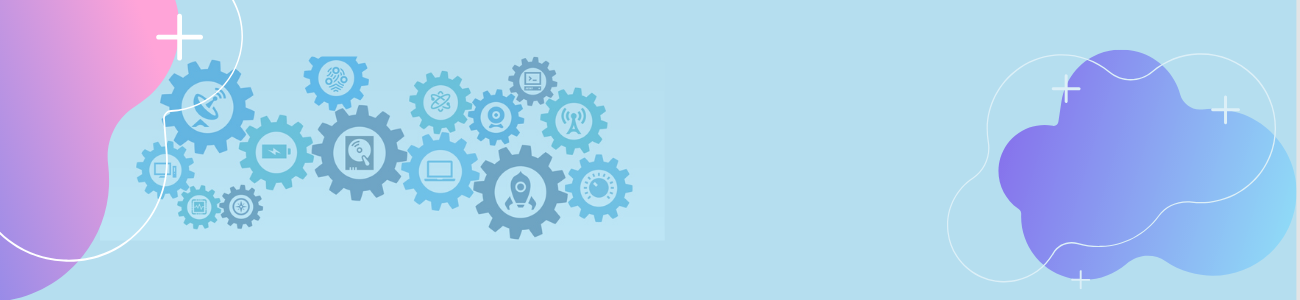
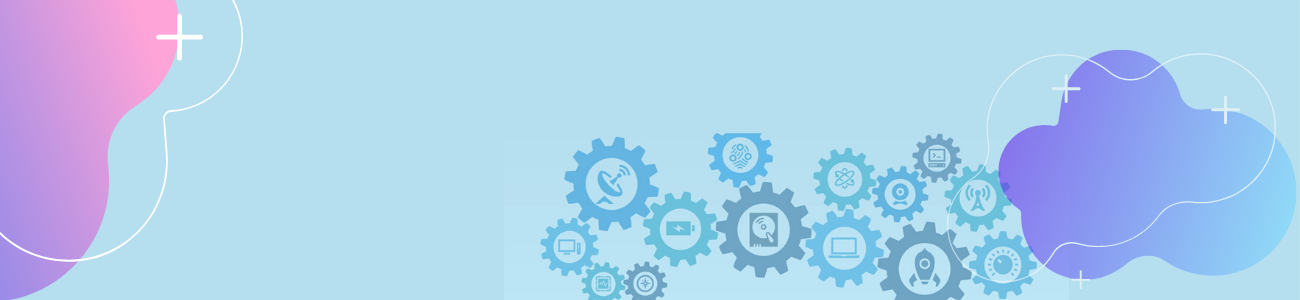
Agregue mainbanner y modifique nav

Changed region(s): [[0.0923, 0.18, 0.8, 1.0], [0.9846, 0.0, 1.0, 1.0]]

diff --git a/src/components/Navbar.js b/src/components/Navbar.js
@@ -1,31 +1,28 @@
 import React from 'react'
 import { Link } from 'react-router-dom';
-import '../Style/Header.css'
+import '../Style/Nav.css'
 import logo from '../images/Logo.png'
 
 
 
 const Nav=(porps)=> {
     return (
-        <div className="container-fluid colorbg">
-            <nav className="mb-1 navbar container sticky-top navbar-expand-lg navbar-dark navegador">
+            <nav className="mb-1 navbar sticky-top navbar-expand-lg navbar-dark navegador">
                 <button className="navbar-toggler" type="button" data-toggle="collapse" data-target="#navbarSupportedContent-555"
                     aria-controls="navbarSupportedContent-555" aria-expanded="false" aria-label="Toggle navigation">
                     <span className="navbar-toggler-icon"></span>
                 </button>
                 <ul className="navbar-nav ml-auto nav-flex-icons">
                     <li className="nav-item avatar">
-                        <a className="nav-link p-0" href="#">
                             <img  src={logo} className="rounded-circle z-depth-0"
                                 alt="avatar image" height="60" />
-                        </a>
                     </li>
                 </ul>
-                <div className="collapse navbar-collapse" id="navbarSupportedContent-555">
+                <div className="collapse container navbar-collapse" id="navbarSupportedContent-555">
                     <ul className="navbar-nav ml-auto">
                         <li className="nav-item active">
                             <a className="nav-link text" href="#">Inicio
-                            <span>|</span>
+                            <span> |</span>
                                 <span className="sr-only">(current)</span>
                             </a>
                         </li>
@@ -36,14 +33,15 @@ const Nav=(porps)=> {
                             <a className="text-two nav-link text-secondary font-weight-bold" href="#">Acompañamiento</a>
                         </li>
                         <li className="nav-item">
+                            <a className="text-two nav-link text-secondary font-weight-bold" href="#">Empleabilidad</a>
+                        </li>
+                        <li className="nav-item">
                             <Link to='/InicioSesion' className="text-two nav-link text-secondary font-weight-bold">Inicio Sesión</Link>
 
                         </li>
                     </ul>
                 </div>
             </nav>
-        </div>
-
     );
 }
 export default Nav;

diff --git a/src/components/Footer.js b/src/components/Footer.js
@@ -2,23 +2,20 @@ import React from 'react';
 import logo from '../images/Logo.png'
 
 const Footer = () => {
-    
-   
+
+
     return (
-        <footer className="container-fluid bg-light"> 
+        <footer className="container-fluid bg-light">
             <nav className="d-flex justify-content-center">
-                <ul className="navbar sticky-top navbar-light">   
-                   <a className="nav-link" href="#"> <img src="https://img.icons8.com/nolan/64/twitter.png"/></a>                  
-                   <a className="nav-link" href="#">  <img src="https://img.icons8.com/nolan/64/instagram-new.png"/></a>
-                   <a className="nav-link" href="#">  <img src="https://img.icons8.com/nolan/64/linkedin.png"/></a>
-                    
+                <ul className="navbar sticky-top navbar-light">
+                    <a className="nav-link" href="#"> <img src="https://img.icons8.com/nolan/64/twitter.png" /></a>
+                    <a className="nav-link" href="#">  <img src="https://img.icons8.com/nolan/64/instagram-new.png" /></a>
+                    <a className="nav-link" href="#">  <img src="https://img.icons8.com/nolan/64/linkedin.png" /></a>
                 </ul>
-                </nav>
-                <div className="d-flex justify-content-center">
+            </nav>
+            <div className="d-flex justify-content-center">
                 <span className="font-italic">Copyright©  | EduSkill especializada en educación PMR  </span>
-                </div>
-               
-            
+            </div>
         </footer>
     )
 }

diff --git a/src/components/MainPrincipalBanner.js b/src/components/MainPrincipalBanner.js
@@ -1,0 +1,27 @@
+import React from 'react';
+import '../Style/MainPrincipal.css'
+
+const MainPrincipalBanner =()=>{
+    return(
+<main className="main-header">
+<div className="background-overlay text-white py-5">
+    <div className="container">
+        <div className="row d-flex">
+            <div className="cont text-center">
+                <h1 className="textMain">
+                    Bienvenid@
+                     </h1>
+                <h4 className="text-justify">Esta página esta creada pensando ti, si eres una persona que pertenece al grupo de PMR (personas con movilidad reducida) eres bienvenid@ conócenos te va a encantar.</h4>
+                <a href="#" className="btn btn-outline-secondary btn-lg text-white bg-dark">
+                    Más información
+                </a>
+            </div>
+            <div className="col-sm-6">
+            </div>
+        </div>
+    </div>
+</div>
+</main>
+    )
+}
+export default MainPrincipalBanner

diff --git a/public/index.html b/public/index.html
@@ -2,7 +2,7 @@
 <html lang="en">
   <head>
     <meta charset="utf-8" />
-    <link rel="icon" href="%PUBLIC_URL%/favicon.ico" />
+    <link rel="icon" href="./icon.ico" />
     <link href="https://fonts.googleapis.com/css2?family=Gotu&display=swap" rel="stylesheet">
     <meta name="viewport" content="width=device-width, initial-scale=1" />
     <meta name="theme-color" content="#000000" />
@@ -12,7 +12,7 @@
     />
     <link rel="apple-touch-icon" href="%PUBLIC_URL%/logo192.png" />
    
-    <title>React App</title>
+    <title>EduSkill</title>
   </head>
   <body>
     <noscript>You need to enable JavaScript to run this app.</noscript>

diff --git a/src/Style/Nav.css b/src/Style/Nav.css
@@ -1,22 +1,28 @@
 .colorbg{
     display: felx;
     background-color: #0ec6e5;
-/*     opacity: 0.5;*/
+    opacity: 1.5;
      height: 5rem;   
-
+     margin: 0;
+     padding: 0;
 }
 
 .text{
 font-family: 'Gotu', sans-serif;
 font-size: 25px;
+font-weight: 600;
 }
 .text:hover{
    border-radius: 10%;
-    background:gray;
     transition: width 2s;
+    font-size: 28px;
+    font-weight: 600;
 }
 .text-two{
 margin-top: 5px;
 font-family: 'Gotu', sans-serif;
 font-size: 18px;
+}
+.text-two:hover{
+    font-size: 23px;
 }

diff --git a/src/Style/MainPrincipal.css b/src/Style/MainPrincipal.css
@@ -1,0 +1,27 @@
+.main-header {
+    position: relative;
+    background: url(../images/banner.png);
+    background-size: cover;
+    min-height:500px;
+    margin:0 auto;
+    padding: 0;
+
+  }
+  
+  .background-overlay {
+    background: rgba(48, 51, 107, 0.445);
+    top: 0;
+    left: 0;
+    width: 100%;
+    height: 500px;
+  }
+  .textMain{
+      color:paleturquoise;
+  }
+
+  .cont{
+      margin-top: 30px;
+      margin:12px;
+      width: 500px;   
+  }
+  

diff --git a/src/components/Header.js b/src/components/Header.js
@@ -2,15 +2,17 @@ import React from 'react'
 import { Link } from 'react-router-dom';
 import Nav from './Navbar'
 import Footer from './Footer';
+import MainPrincipal from './MainPrincipal';
 
 
 
 function Header() {
     return (
-        <div className="container-fluid colorbg">
+        <header className="colorbg">
            <Nav />
+           <MainPrincipal/>
            <Footer />    
-        </div>
+        </header>
 
     );
 }

diff --git a/src/components/MainPrincipal.js b/src/components/MainPrincipal.js
@@ -1,0 +1,12 @@
+import React from 'react';
+import MainPrincipalBanner from './MainPrincipalBanner';
+
+const MainPrincipal = () => {
+    return (
+        <>
+            <MainPrincipalBanner />
+           
+        </>
+    )
+}
+export default MainPrincipal
